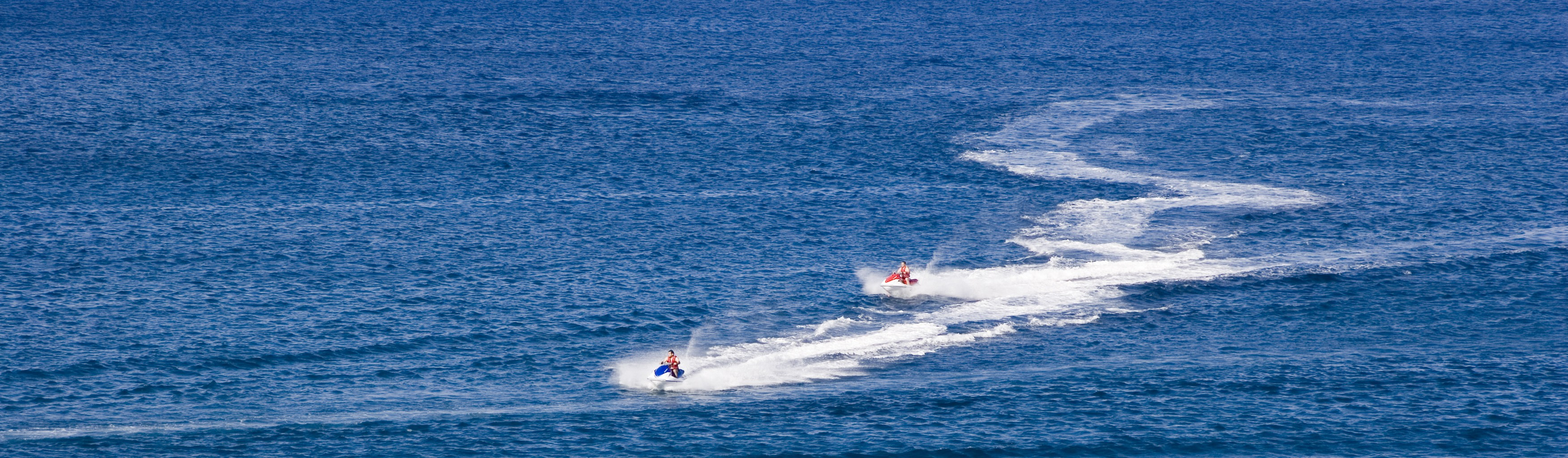
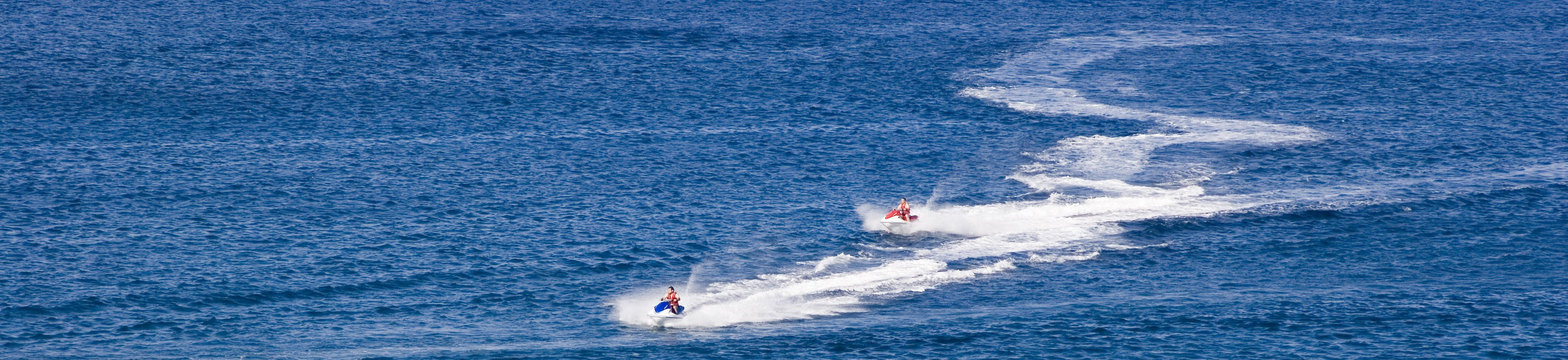
레저스포츠 탭 생성

diff --git a/tour_FE/src/styles/sports.css b/tour_FE/src/styles/sports.css
@@ -52,7 +52,7 @@
   max-width: 1180px;
   margin: 0 auto;
   padding: 0 24px;
-  border-bottom: 1px solid #e2e8f0;
+  border-bottom: 1px solid #94a3b8;
 }
 
 .sp-tab {
@@ -84,6 +84,15 @@
   outline-offset: -2px;
 }
 
+.sp-empty-hint {
+  margin: 0;
+  padding: 3rem 1rem;
+  text-align: center;
+  font-size: 14px;
+  color: #8a94a3;
+  line-height: 1.5;
+}
+
 /* ③ Center category title — no blue square */
 .sp-cat-title-wrap {
   padding: 2.5rem 24px 2rem;
@@ -103,22 +112,18 @@
   padding-bottom: 8px;
 }
 
-/* ④ Sport grid — no spacers, left-aligned flex wrap */
+/* ④ Sport grid — cell borders only (no empty trailing column line) */
 .sp-sport-grid {
   display: flex;
   flex-wrap: wrap;
-  border-top: 1px solid #94a3b8;
-  border-left: 1px solid #94a3b8;
 }
 
 .sp-sport-btn {
   box-sizing: border-box;
   width: 25%;
-  margin: 0;
+  margin: 0 -1px -1px 0;
   padding: 18px 10px;
-  border: 0;
-  border-right: 1px solid #94a3b8;
-  border-bottom: 1px solid #94a3b8;
+  border: 1px solid #94a3b8;
   border-radius: 0;
   background: #fff;
   color: #4a5567;
@@ -129,26 +134,23 @@
   transition: background 0.15s ease, color 0.15s ease;
 }
 
-.sp-sport-btn:nth-child(4n),
-.sp-sport-btn:last-child {
-  border-right: none;
-}
-
 .sp-sport-btn:hover {
   background: #f7f9fc;
   color: #1a3a6b;
+  z-index: 1;
 }
 
 .sp-sport-btn.is-active {
   background: #2563eb;
   color: #fff;
   font-weight: 500;
+  z-index: 1;
 }
 
 .sp-sport-btn:focus-visible {
   outline: 2px solid #2563eb;
   outline-offset: -2px;
-  z-index: 1;
+  z-index: 2;
 }
 
 /* ⑤ Detail: photo | info */
@@ -406,15 +408,6 @@
   .sp-sport-btn {
     width: 50%;
     padding: 16px 8px;
-  }
-
-  .sp-sport-btn:nth-child(4n) {
-    border-right: 1px solid #94a3b8;
-  }
-
-  .sp-sport-btn:nth-child(2n),
-  .sp-sport-btn:last-child {
-    border-right: none;
   }
 
   .sp-detail {

diff --git a/tour_FE/src/pages/Sports.tsx b/tour_FE/src/pages/Sports.tsx
@@ -113,6 +113,10 @@ export function Sports() {
         })}
       </div>
 
+      {category === null && (
+        <p className="sp-empty-hint">카테고리를 선택하면 종목을 확인할 수 있습니다.</p>
+      )}
+
       {category && selected && (
         <>
           <div className="sp-cat-title-wrap">

diff --git a/tour_FE/src/data/sports.ts b/tour_FE/src/data/sports.ts
@@ -37,7 +37,7 @@ export const SPORTS_DATA: Record<CategoryKey, Sport[]> = {
       id: "kayak",
       name: "카약",
       pay: true,
-      photo: "",
+      photo: "/카약.png",
       diff: "입문",
       price: "2만원대~",
       season: "5~10월",
